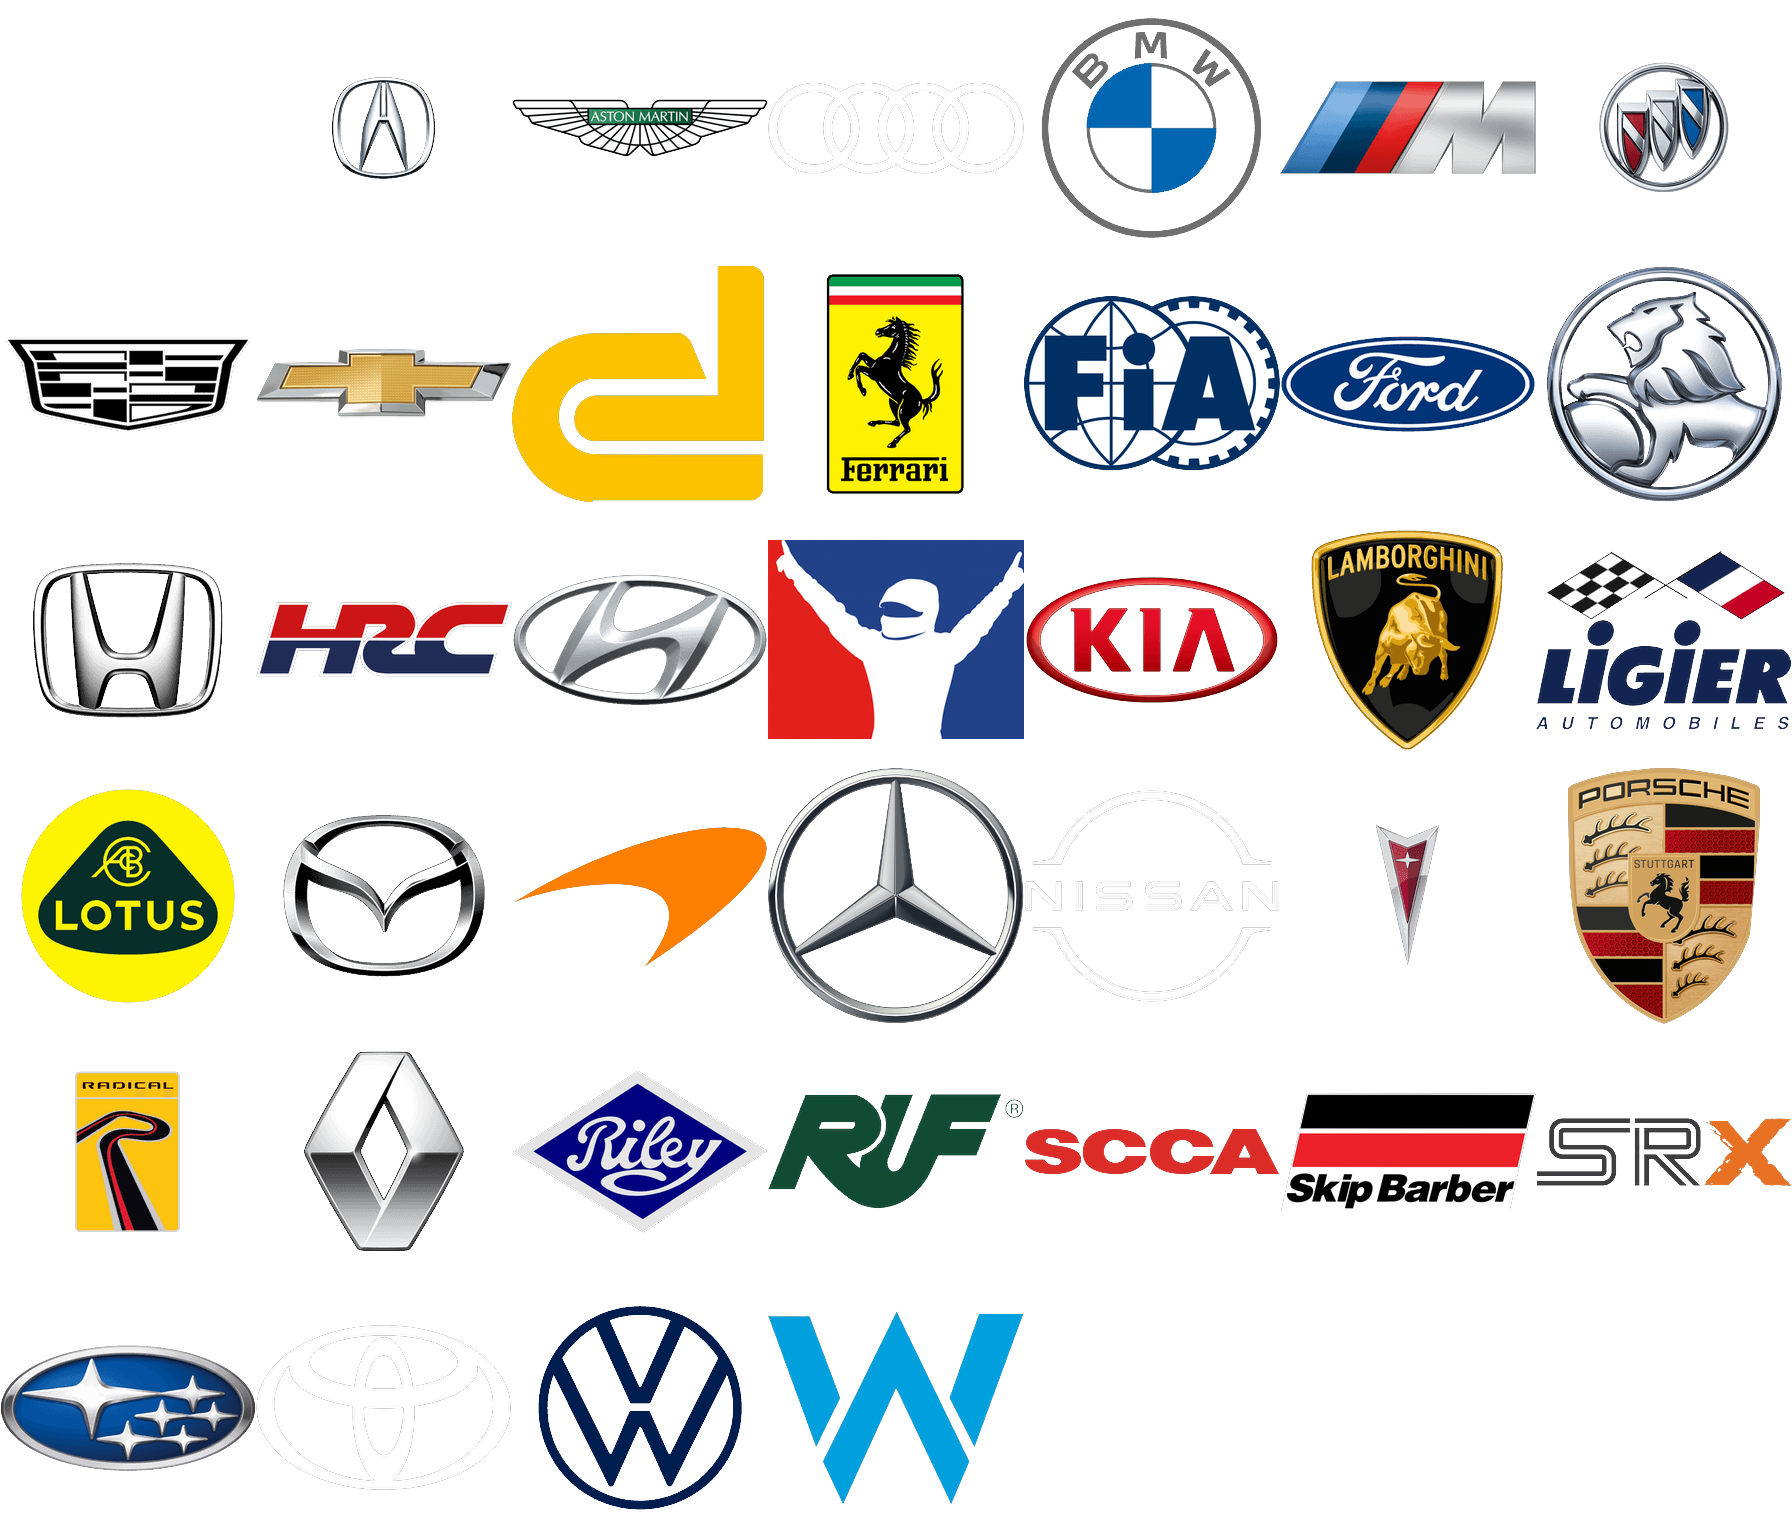
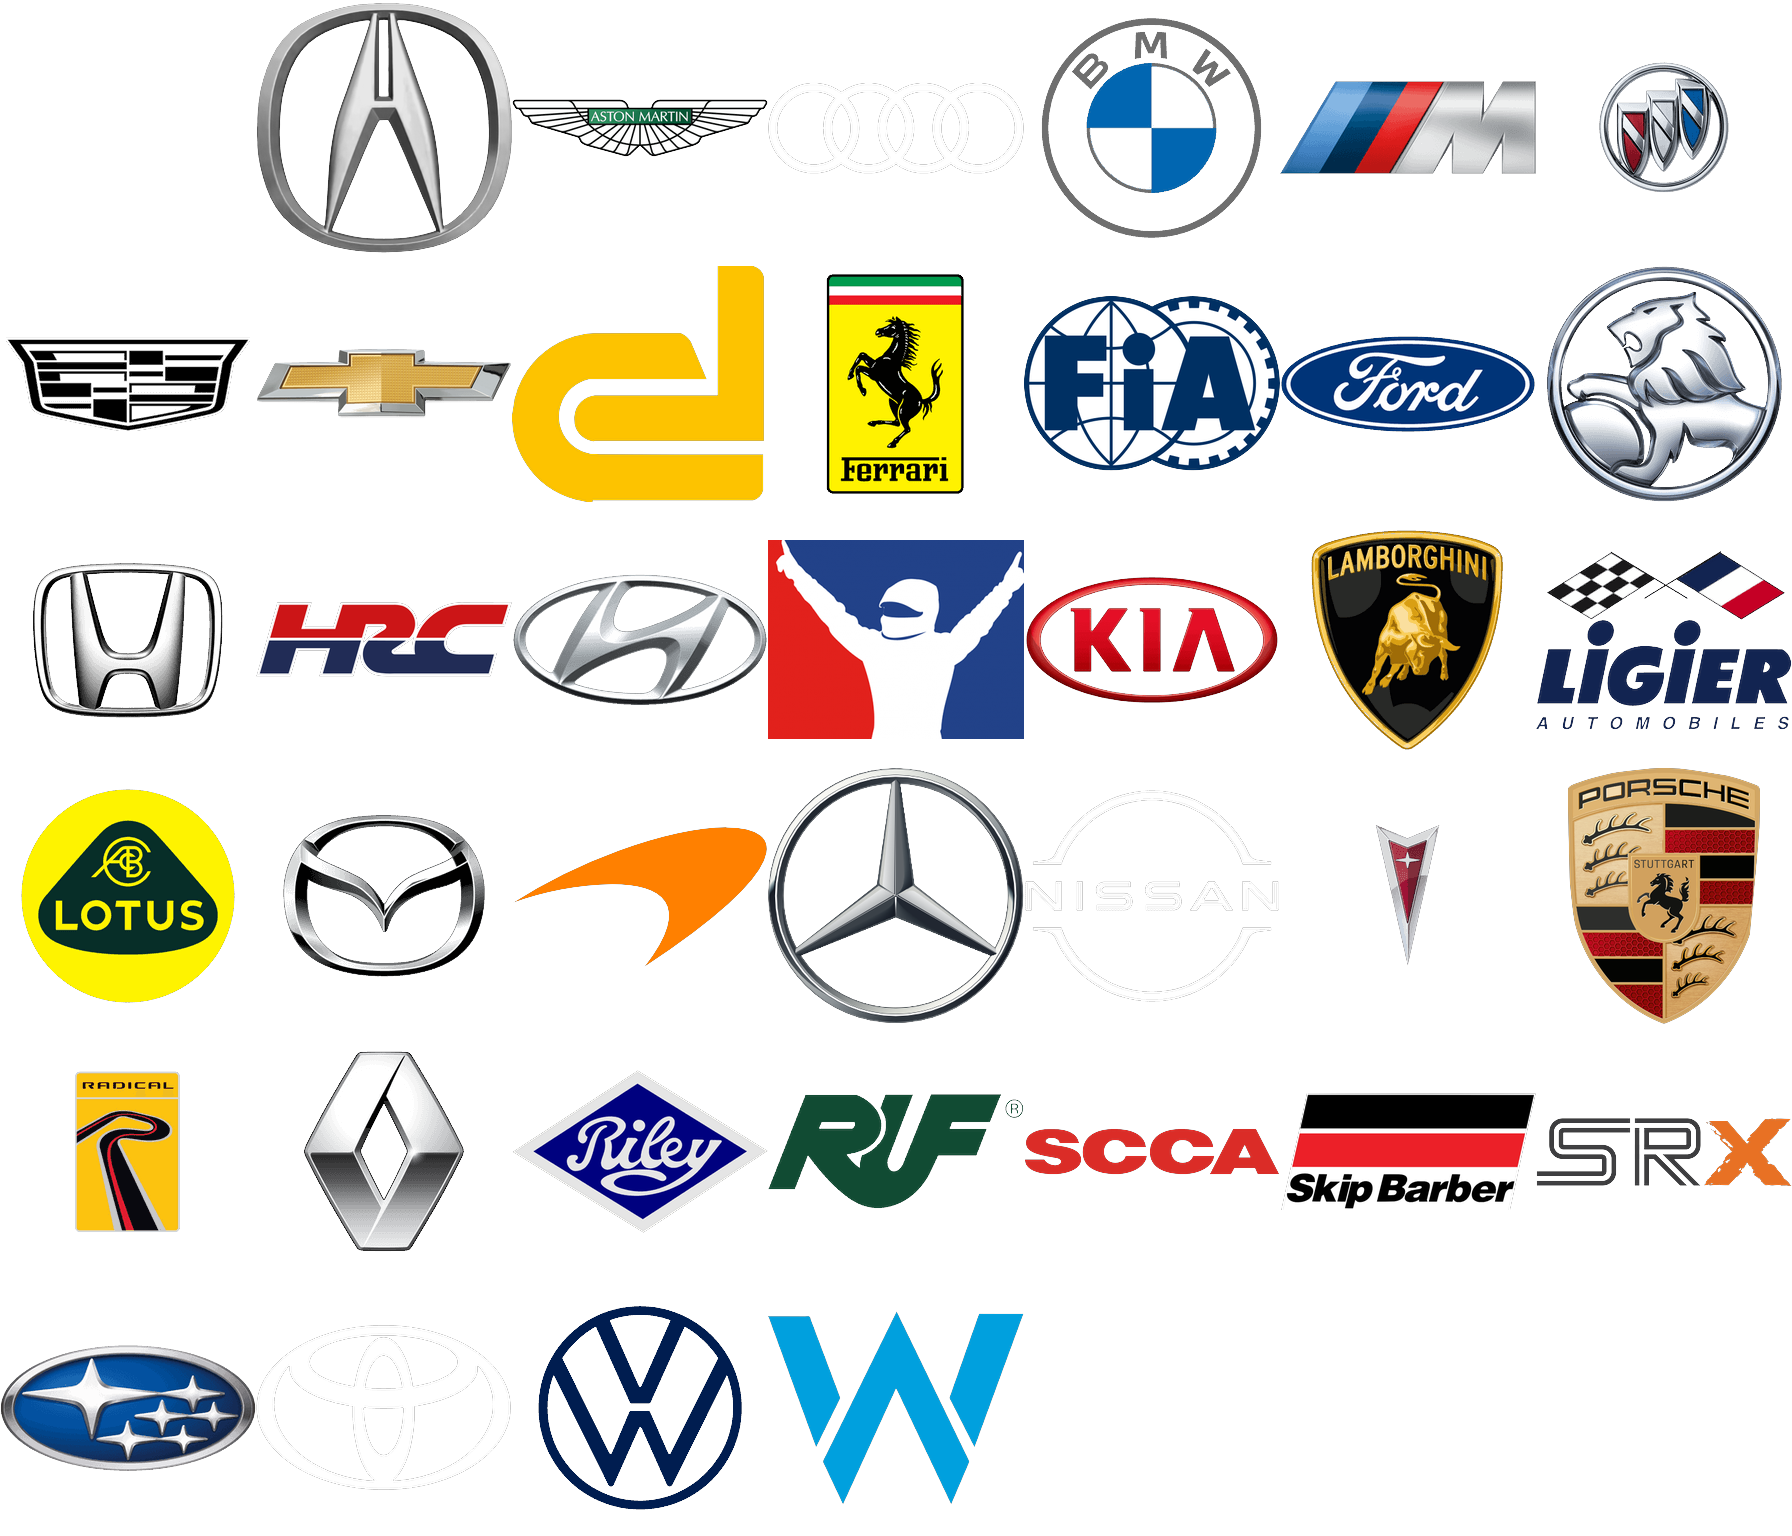
update acura

Changed region(s): [[0.125, 0.0, 0.3125, 0.1875]]

diff --git a/src/frontend/components/Standings/components/DriverInfoRow/DriverInfoRow.stories.tsx b/src/frontend/components/Standings/components/DriverInfoRow/DriverInfoRow.stories.tsx
@@ -676,3 +676,64 @@ export const AllCars: Story = {
     layout: 'padded',
   },
 };
+
+const IMSACarsComponent = () => {
+  const imsaCars = [
+    { id: 128, name: 'Dallara P217', class: 'LMP2' },
+    { id: 132, name: 'BMW M4 GT3 EVO', class: 'IMSA23' },
+    { id: 133, name: 'Lamborghini Huracán GT3 EVO', class: 'IMSA23' },
+    { id: 156, name: 'Mercedes-AMG GT3 2020', class: 'IMSA23' },
+    { id: 169, name: 'Porsche 911 GT3 R (992)', class: 'IMSA23' },
+    { id: 173, name: 'Ferrari 296 GT3', class: 'IMSA23' },
+    { id: 184, name: 'Chevrolet Corvette Z06 GT3.R', class: 'IMSA23' },
+    { id: 185, name: 'Ford Mustang GT3', class: 'IMSA23' },
+    { id: 188, name: 'McLaren 720S GT3 EVO', class: 'IMSA23' },
+    { id: 194, name: 'Acura NSX GT3 EVO 22', class: 'IMSA23' },
+    { id: 206, name: 'Aston Martin Vantage GT3 EVO', class: 'IMSA23' },
+    { id: 159, name: 'BMW M Hybrid V8', class: 'GTP' },
+    { id: 168, name: 'Cadillac V-Series.R GTP', class: 'GTP' },
+    { id: 170, name: 'Acura ARX-06 GTP', class: 'GTP' },
+    { id: 174, name: 'Porsche 963 GTP', class: 'GTP' },
+    { id: 196, name: 'Ferrari 499P', class: 'GTP' },
+  ];
+
+  return (
+    <div className="w-full h-full max-h-[90vh] overflow-y-auto">
+      <table className="w-full table-auto text-sm border-separate border-spacing-y-0.5 mb-3 mt-3">
+        <tbody>
+          {imsaCars.map((car, index) => (
+            <DriverInfoRow
+              key={car.id}
+              carIdx={index + 1}
+              carNumber={`${car.id}`}
+              name={car.name}
+              isPlayer={false}
+              hasFastestTime={false}
+              position={index + 1}
+              classColor={16777215}
+              isMultiClass={false}
+              flairId={2}
+              carId={car.id}
+              dnf={false}
+              repair={false}
+              penalty={false}
+              slowdown={false}
+              config={{
+                countryFlags: { enabled: false },
+                gap: { enabled: false },
+                badge: { enabled: false },
+              } as StandingsWidgetSettings['config']}
+            />
+          ))}
+        </tbody>
+      </table>
+    </div>
+  );
+};
+
+export const IMSACars: Story = {
+  render: () => <IMSACarsComponent />,
+  parameters: {
+    layout: 'padded',
+  },
+};
